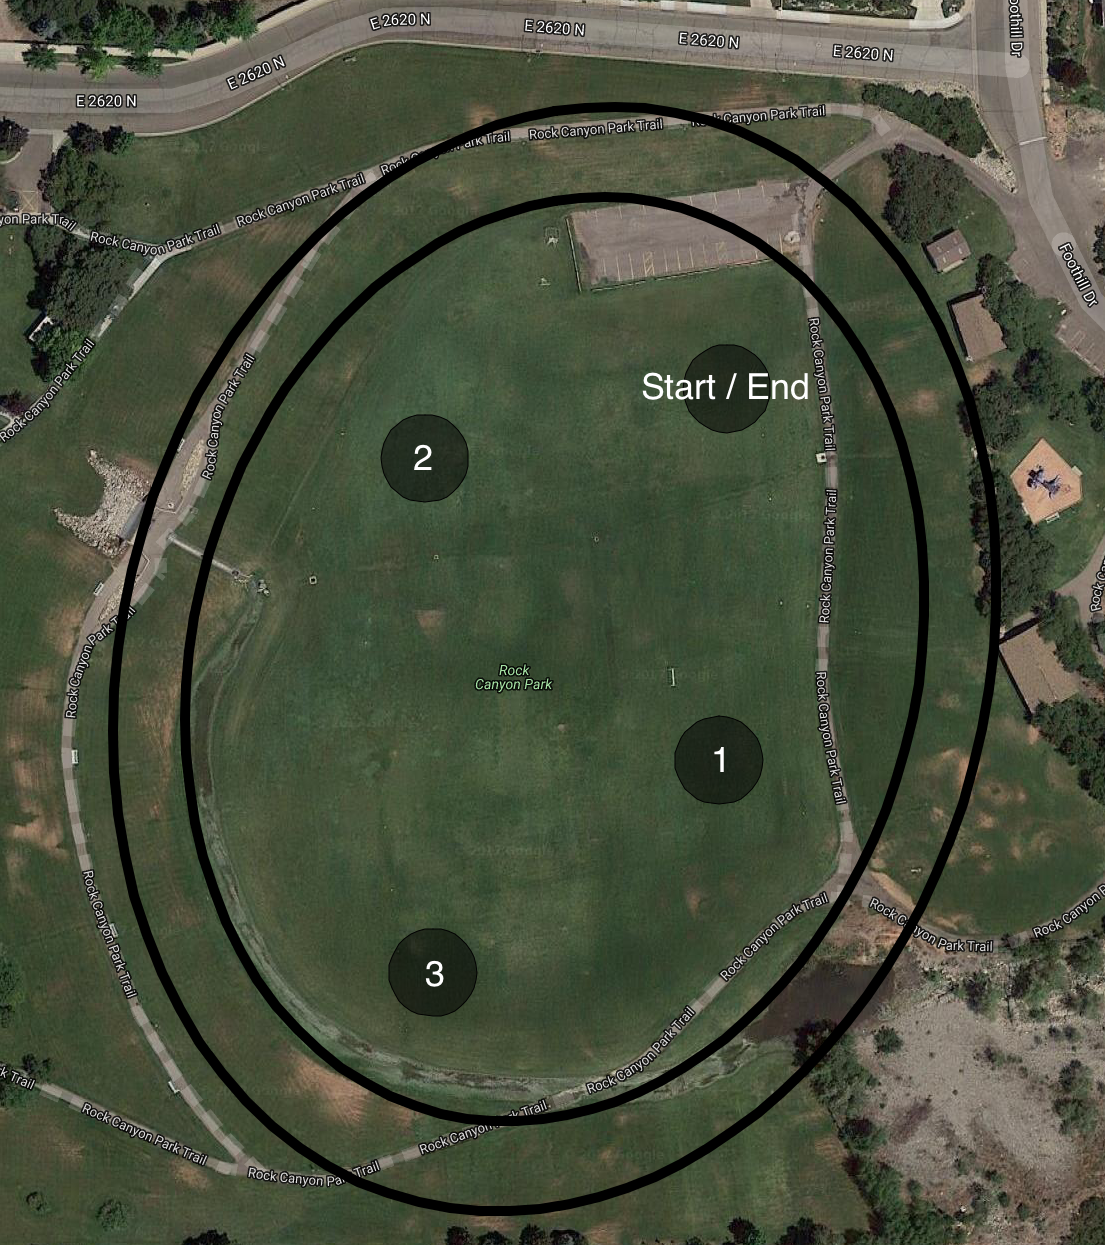
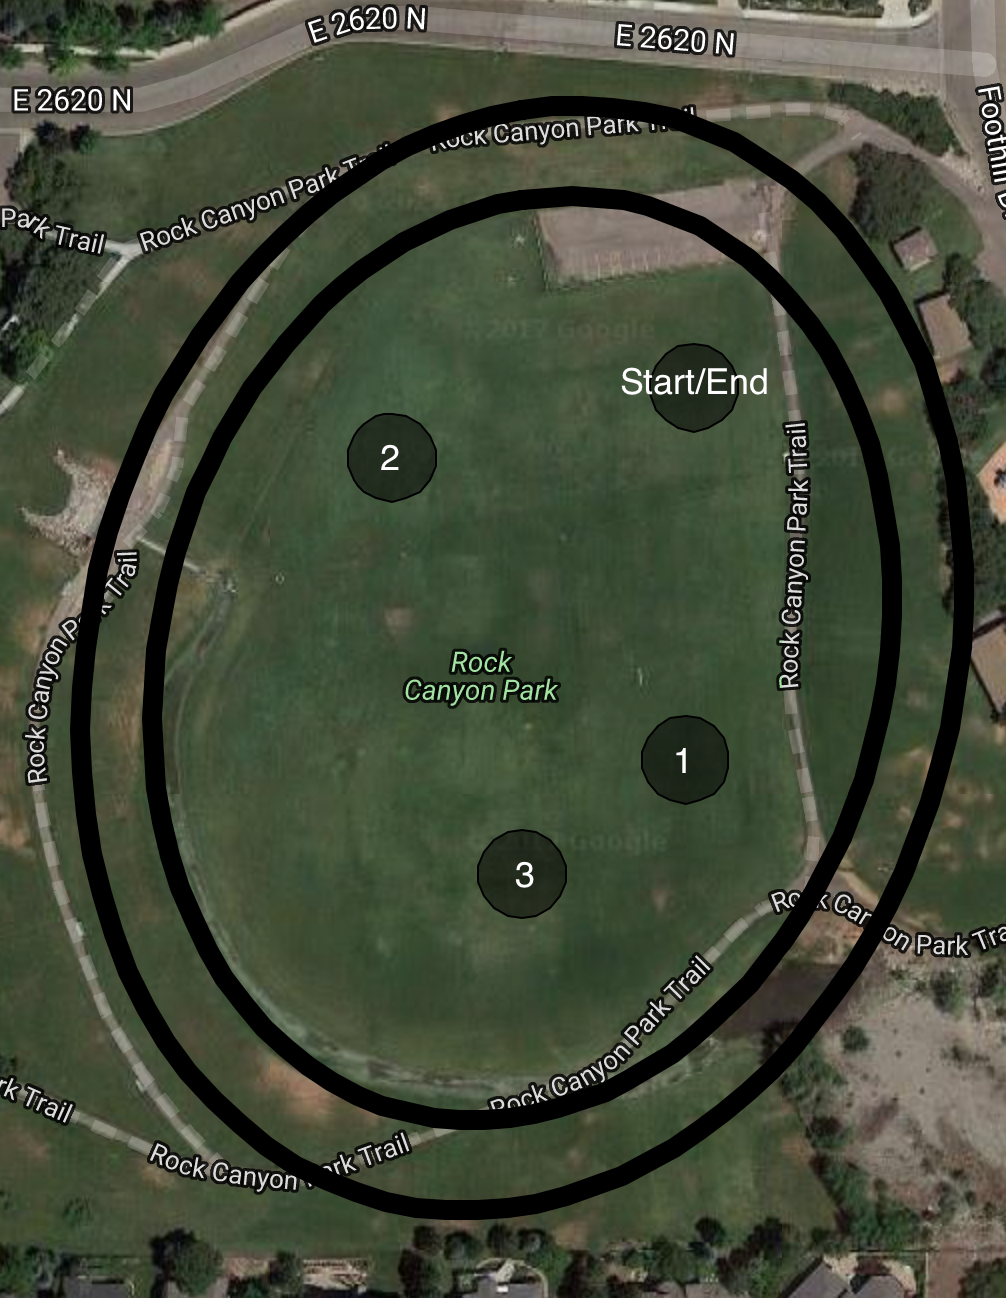
new wp3. matlab plotting script

diff --git a/src/autopilot_me415/plotflight.m b/src/autopilot_me415/plotflight.m
@@ -1,0 +1,91 @@
+clear; close all;
+
+% ------- your data here -------
+% latitude/longitude/altitude (m)/time (s)
+lat = [];
+long = [];
+altitude = [];
+t = [];
+
+% ------------------------------
+
+% for plotting circles
+theta = linspace(0, 2*pi, 200);  
+
+% ground info
+alt_ground = 1508;
+ft2m = 0.3048;
+floor = 100*ft2m;
+ceiling = 400*ft2m;
+
+% ---- waypoints ----
+home = [40.26778432216462, -111.63506331014253];
+wp1 = [40.26702297859316, -111.63508476781465];
+wp2 = [40.267641059243935, -111.63587333726502];
+wp3 = [40.26678857, -111.63552403];
+
+% tolerance
+R = 10.0;  % m
+
+% distance between points (let home be origin)
+[e1, n1, ~] = distance(home, wp1);
+[e2, n2, ~] = distance(home, wp2);
+[e3, n3, ~] = distance(home, wp3);
+
+n = length(lat);
+north = zeros(n);
+east = zeros(n);
+for i = 1:n
+    [north(i), east(i), ~] = distance(home, [lat(i), long(i)]);
+end
+
+% ------ boundary -------
+ellipsemajor1 = [40.268316, -111.635040];
+ellipsemajor2 = [40.266145, -111.636008];
+ellipseminor = [40.266994, -111.634407];
+
+% rotation angle
+alpha = -15*pi/180.0;
+
+% compute center
+center = 0.5*(ellipsemajor1 + ellipsemajor2);
+[CE, CN, ~] = distance(home, center);
+
+% semimajor radii
+[~, ~, Rmajor] = distance(center, ellipsemajor1);
+[~, ~, Rminor] = distance(center, ellipseminor);
+
+xellipse = CE + Rminor*cos(theta)*cos(alpha) - Rmajor*sin(theta)*sin(alpha);
+yellipse = CN + Rminor*cos(theta)*sin(alpha) + Rmajor*sin(theta)*cos(alpha);
+
+% ----- plot ------
+figure; hold on;
+plot(0, 0, 'r*', 'MarkerSize', 24);
+plot(e1 + R*cos(theta), n1 + R*sin(theta), 'k');
+text(e1, n1, '1', 'FontSize', 18);
+plot(e2 + R*cos(theta), n2 + R*sin(theta), 'k');
+text(e2, n2, '2', 'FontSize', 18);
+plot(e3 + R*cos(theta), n3 + R*sin(theta), 'k');
+text(e3, n3, '3', 'FontSize', 18);
+plot(north, east, 'k');
+plot(xellipse, yellipse, 'r--');
+axis('equal');
+xlabel('distance east from home (m)');
+ylabel('distance north from home (m)');
+
+figure; hold on;
+plot(t, altitude-alt_ground);
+plot([t(1), t(end)], [floor, floor], 'r--');
+plot([t(1), t(end)], [ceiling, ceiling], 'r--');
+xlabel('time (s)');
+ylabel('height above ground (m)');
+
+
+function [distE, distN, totaldist] = distance(pt1, pt2)
+%  distance of 2 from 1,   pt = [lat, long]
+
+    EARTH_RADIUS = 6371000.0;
+    distN = EARTH_RADIUS*(pt2(1) - pt1(1))*pi/180.0;
+    distE = EARTH_RADIUS*cos(pt1(1)*pi/180.0)*(pt2(2) - pt1(2))*pi/180.0;
+    totaldist = norm([distN, distE]);
+end

diff --git a/src/autopilot_me415/autopilot.py b/src/autopilot_me415/autopilot.py
@@ -28,7 +28,8 @@ class autopilot:
         # define waypoints
         self.wp1 = [40.26702297859316, -111.63508476781465]
         self.wp2 = [40.267641059243935, -111.63587333726502]
-        self.wp3 = [40.26658909078882, -111.6358518795929]
+        # self.wp3 = [40.26658909078882, -111.6358518795929]
+        self.wp3 = [40.26678857, -111.63552403]
         self.wp4 = [40.26778432216462, -111.63506331014253]
         self.wp_state_machine = 0
         self.wp_tolerance = 10.0  # m
@@ -122,10 +123,11 @@ class autopilot:
         elif self.wp_state_machine == 2 and d3 < self.wp_tolerance:
             self.wp_state_machine = 3
             print "YES!  Achieved waypoint 3!"
-        elif self.wp_state_machine == 3 and d4 < self.wp_tolerance:
-            self.wp_state_machine = 4
-            print "YES!  Achieved waypoint 4!"
-            print "CONGRATULATIONS! All waypoints achieved!!!"
+            print "CONGRATULATIONS!  Return to home!"
+        # elif self.wp_state_machine == 3 and d4 < self.wp_tolerance:
+        #     self.wp_state_machine = 4
+        #     print "YES!  Achieved waypoint 4!"
+        #     print "CONGRATULATIONS! All waypoints achieved!!!"
 
 
     def distance(self, pt1, pt2):

diff --git a/src/autopilot_me415/setup-bdy.py b/src/autopilot_me415/setup-bdy.py
@@ -6,7 +6,8 @@ import numpy as np
 wp0 = [40.26778432216462, -111.63506331014253]
 wp1 = [40.26702297859316, -111.63508476781465]
 wp2 = [40.267641059243935, -111.63587333726502]
-wp3 = [40.26658909078882, -111.6358518795929]
+# wp3 = [40.26658909078882, -111.6358518795929]
+wp3 = [40.26678857, -111.63552403]
 
 
 # ---- plot waypoints ----
